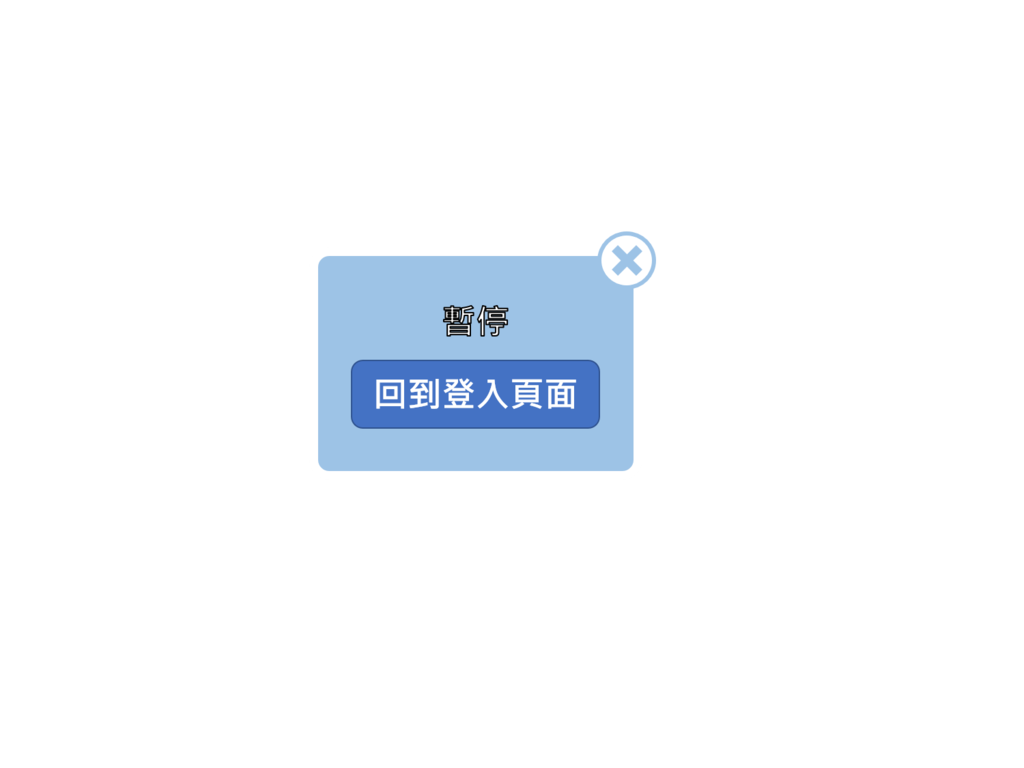
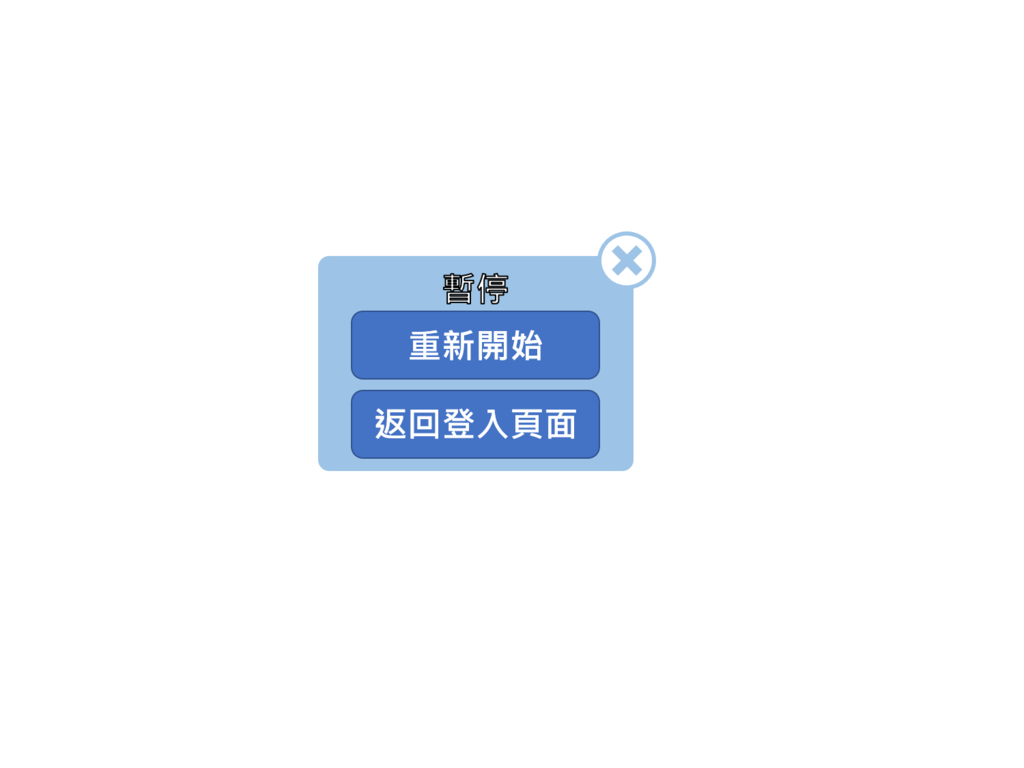
可重玩or儲存進度回到主選單

Changed region(s): [[0.3438, 0.3438, 0.5938, 0.625]]

diff --git a/src/controller/GameLoop.java b/src/controller/GameLoop.java
@@ -1,8 +1,20 @@
 package controller;
 
+import ironBoar.IronBoar;
+import knight.Knight;
+import knight.KnightCollisionHandler;
 import media.AudioPlayer;
+import model.Direction;
 import model.LoginWorld;
+import model.MonsterGenerator;
 import model.World;
+import obstacles.Obstacle1;
+import obstacles.Obstacle2;
+import obstacles.Obstacle3;
+import starPixie.StarPixie;
+
+import java.awt.*;
+import java.util.ArrayList;
 
 /**
  * @author - johnny850807@gmail.com (Waterball)
@@ -12,7 +24,7 @@ public class GameLoop {
     private int from;
     private View view;
     private Login login;
-    private Game game;
+    public Game game;
     private Pause pause;
 
     public GameLoop(Login login, Game game, Pause pause) {
@@ -26,6 +38,66 @@ public class GameLoop {
 
     public void start() {
         new Thread(this::gameLoop).start();
+    }
+
+    public void restart() {
+        Knight p1 = new Knight(300, new Point(0, 400+768));
+        Knight p2 = new Knight(300, new Point(300, 300+768));
+        IronBoar m1 = new IronBoar(100, new Point(300, 150));
+        IronBoar m2 = new IronBoar(100, new Point(500, 150));
+        StarPixie m3 = new StarPixie(50, new Point(300, 430));
+        MonsterGenerator generator = new MonsterGenerator();
+        int obstacleCount = 1;
+        Direction d = Direction.RIGHT;
+        ArrayList<Obstacle1> o1 = new ArrayList<Obstacle1>();
+        o1.add(new Obstacle1("assets/obstacle/Obstacle4.jpg", new Point(0, 1350), d));
+
+        obstacleCount = 3;
+        d = Direction.RIGHT;
+        ArrayList<Obstacle2> o2 = new ArrayList<Obstacle2>();
+        for (int i = 0; i < obstacleCount; i++) {
+            if (i == 0)
+                ;
+                //o2.add(new Obstacle2("assets/obstacle/Obstacle2.png", new Point((250)%2048, (500)%1536), d));
+            else if (i == 1)
+                o2.add(new Obstacle2("assets/obstacle/Obstacle2.png", new Point((445+750)%2048, (250+300)%1536), d));
+            else if (i == 2)
+                o2.add(new Obstacle2("assets/obstacle/Obstacle2.png", new Point((800)%2048, (200)%1536), d));
+
+            if (d == Direction.RIGHT)  d = Direction.LEFT;
+            else
+                d = Direction.RIGHT;
+        }
+
+        obstacleCount = 6;
+        d = Direction.LEFT;
+        ArrayList<Obstacle3> o3 = new ArrayList<Obstacle3>();
+        for (int i = 0; i < obstacleCount; i++) {
+            if (i == 0)
+                o3.add(new Obstacle3("assets/obstacle/Obstacle3.png", new Point((680)%2048, (800)%1536), d));
+            else if (i == 1)
+                o3.add(new Obstacle3("assets/obstacle/Obstacle3.png", new Point((680+800)%2048, (950+1000)%1536), d));
+            else if (i == 2)
+                o3.add(new Obstacle3("assets/obstacle/Obstacle3.png", new Point((250)%2048, (1036)%1536), d));
+            else if (i == 3)
+                o3.add(new Obstacle3("assets/obstacle/Obstacle3.png", new Point((400)%2048, (330)%1536), d));
+            else if (i == 4)
+                o3.add(new Obstacle3("assets/obstacle/Obstacle3.png", new Point((100)%2048, (600)%1536), d));
+            else if (i == 5)
+                o3.add(new Obstacle3("assets/obstacle/Obstacle3.png", new Point((0)%2048, (330)%1536), d));
+
+            if (d == Direction.RIGHT)
+                d = Direction.LEFT;
+            else
+                d = Direction.RIGHT;
+        }
+
+        World world = new World("assets/background/fallguys4times.jpg", o1, o2, o3, new KnightCollisionHandler(), p1, p2, m1, m2, m3);  // model
+        world.addSprites(generator.generateIronBoar(new Point(0, 1350-170), new Point(2048, 1350-170), 3));
+        world.addSprites(generator.generateStarPixie(new Point(0, 1350-170), new Point(2048, 1350-170), 3));
+
+        game = new Game(world, p1, p2);
+        pause.restart(world);
     }
 
     private void gameLoop() {
@@ -45,7 +117,7 @@ public class GameLoop {
                     AudioPlayer.stopSounds(getLoginWorld().clip);
                     break;
                 case 1: // game
-                    if(from == 0) getWorld().playSound();
+                    getWorld().playSound();
                     while (running == 1) {
                         World world = getWorld();
                         world.update();
@@ -53,16 +125,15 @@ public class GameLoop {
                         delay(15);
                     }
                     from = 1;
-                    if(running == 0) AudioPlayer.stopSounds(getWorld().clip);
+                    //if(running == 0 && getWorld().clip != null) AudioPlayer.stopSounds(getWorld().clip);
                     break;
                 case 2: // pause
                     while (running == 2) {
-                        World world = getWorld();
                         view.render(2, pause);
                         delay(15);
                     }
                     from = 2;
-                    if(running == 0) AudioPlayer.stopSounds(getWorld().clip);
+                    if(running == 0 && getWorld().clip != null) AudioPlayer.stopSounds(getWorld().clip);
                     break;
             }
         }

diff --git a/src/views/GameView.java b/src/views/GameView.java
@@ -4,11 +4,13 @@ import controller.Game;
 import controller.GameLoop;
 import controller.Login;
 import controller.Pause;
+import media.AudioPlayer;
 import model.Direction;
 import model.LoginWorld;
 import model.Sprite;
 import model.World;
 
+import javax.sound.sampled.Clip;
 import javax.swing.*;
 import java.awt.*;
 import java.awt.event.KeyAdapter;
@@ -26,7 +28,7 @@ public class GameView extends JFrame {
     public static final int P1 = 1;
     public static final int P2 = 2;
     private final Canvas canvas = new Canvas();
-    private final Game game;
+    private Game game;
     private final Login login;
     private final Pause pause;
     private final GameLoop gameLoop;
@@ -167,7 +169,7 @@ public class GameView extends JFrame {
             @Override
             public void mouseClicked(MouseEvent e) {
                 super.mouseClicked(e);
-                //System.out.println(e.getX() + "," + e.getY());
+                System.out.println(e.getX() + "," + e.getY());
                 switch (gameLoop.running) {
                     case 0:
                         if(e.getX() >= 565 && e.getX() <= 756 && e.getY() >= 330 && e.getY() <= 361) {      // account
@@ -190,7 +192,13 @@ public class GameView extends JFrame {
                         if(e.getX() >= 605 && e.getX() <= 661 && e.getY() >= 262 && e.getY() <= 314) {  // resume
                             gameLoop.stop(2, 1);
                         }
-                        if(e.getX() >= 358 && e.getX() <= 606 && e.getY() >= 390 && e.getY() <= 456) {  // login
+                        if(e.getX() >= 358 && e.getX() <= 606 && e.getY() >= 341 && e.getY() <= 409) {  // restart
+                            AudioPlayer.stopSounds(game.getWorld().clip);
+                            gameLoop.restart();
+                            game = gameLoop.game;
+                            gameLoop.stop(2, 1);
+                        }
+                        if(e.getX() >= 358 && e.getX() <= 606 && e.getY() >= 419 && e.getY() <= 486) {  // login
                             gameLoop.stop(2, 0);
                         }
                         break;

diff --git a/src/controller/Game.java b/src/controller/Game.java
@@ -11,7 +11,7 @@ import model.World;
 public class Game {
     private final Knight p1;
     private final Knight p2;
-    private final World world;
+    private World world;
     GameLoop.View view;
     GameLoop gameLoop;
 
@@ -56,7 +56,11 @@ public class Game {
         return playerNumber == 1 ? p1 : p2;
     }
 
-    protected World getWorld() {
+    public World getWorld() {
         return world;
+    }
+
+    public void restart(World world) {
+        this.world = world;
     }
 }

diff --git a/src/controller/Pause.java b/src/controller/Pause.java
@@ -9,7 +9,7 @@ import java.io.File;
 import java.io.IOException;
 
 public class Pause {
-    private final World world;
+    private World world;
     GameLoop.View view;
     public GameLoop gameLoop;
     private Image pauseWindow;
@@ -31,6 +31,10 @@ public class Pause {
 
     public World getWorld() {
         return world;
+    }
+
+    public void restart(World world) {
+        this.world = world;
     }
 
     public void render(Graphics g) {
